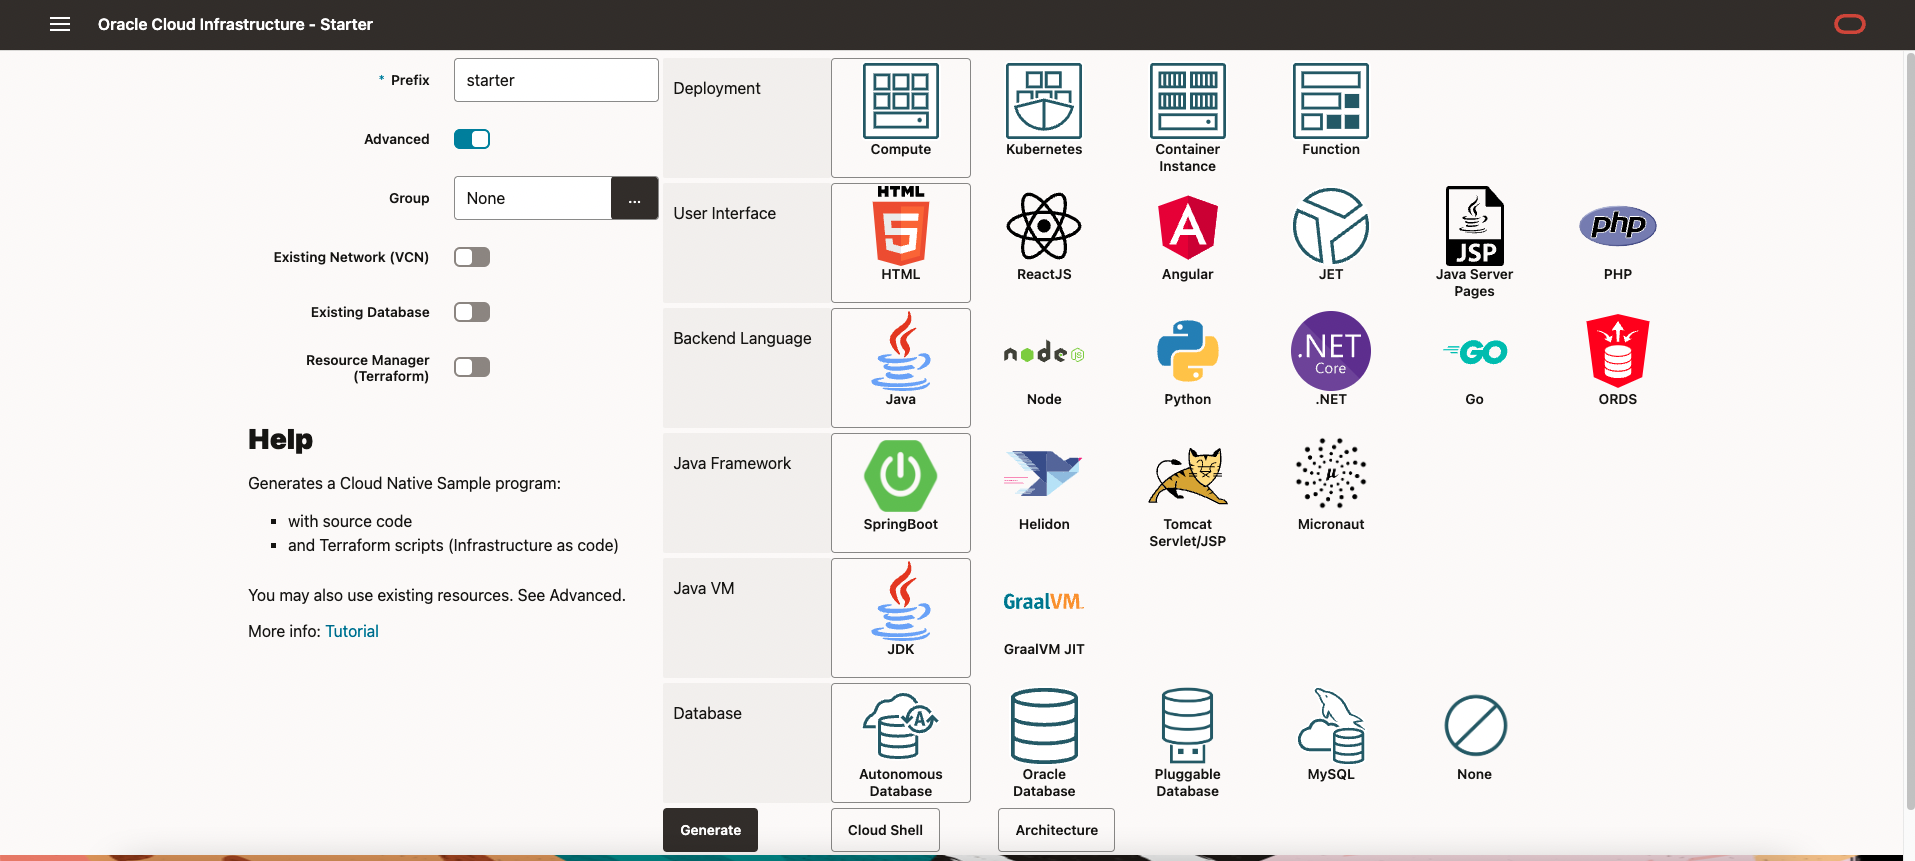
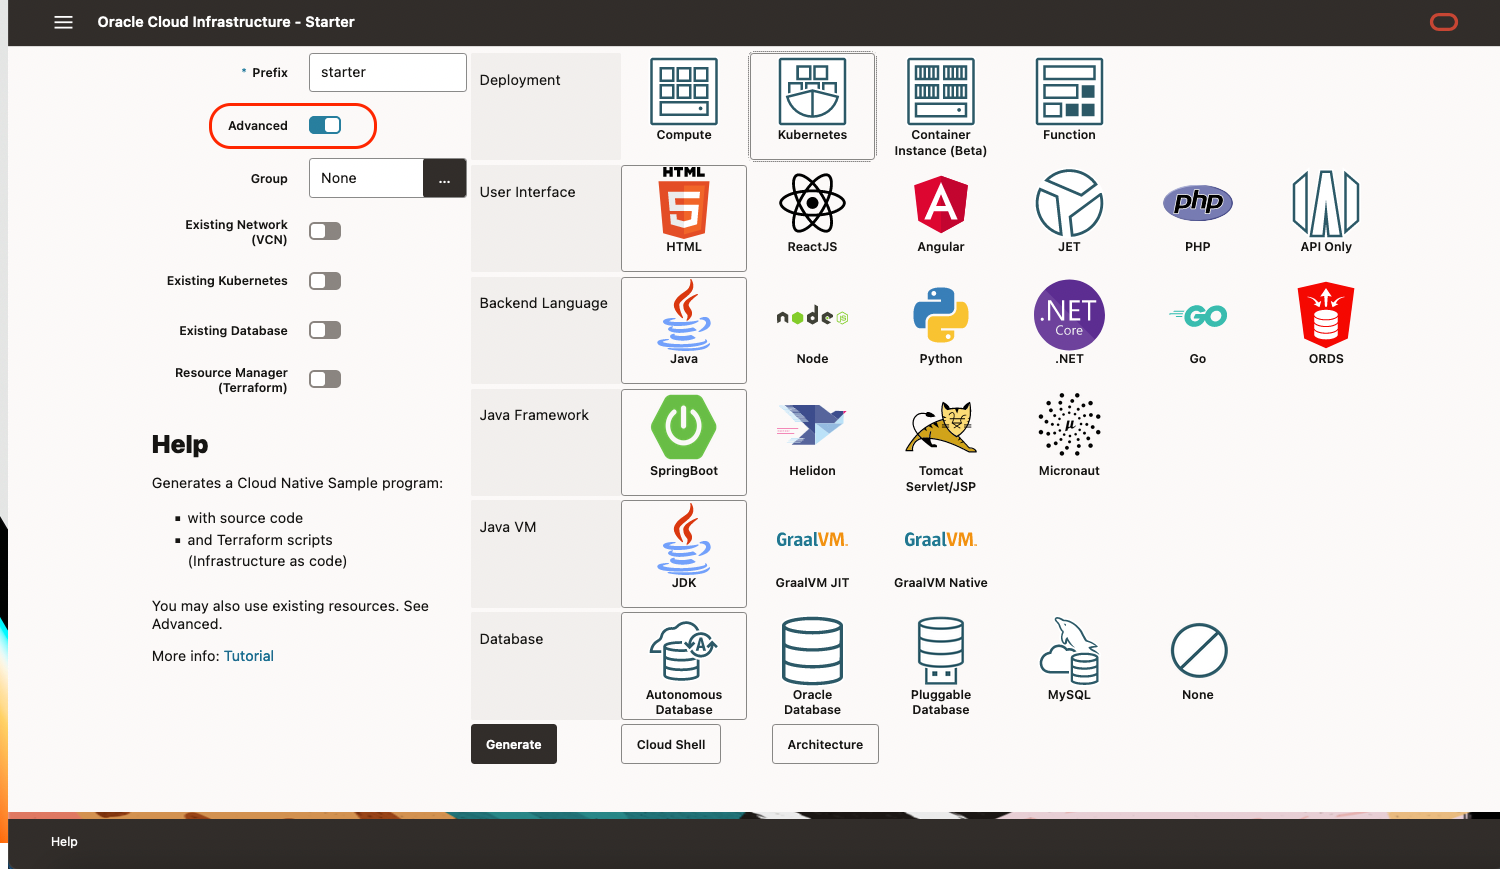
v1.5

diff --git a/oci-starter/group/group.md b/oci-starter/group/group.md
@@ -1,0 +1,134 @@
+
+# Groups
+
+Groups allow to create "Common Resources" that you will share between several applications.
+It can be:
+- the Network (VCN/Subnet)
+- a Kubernetes cluster (OKE)
+- (optional) a database or a container database
+- a bastion
+- ...
+
+
+But when you enable the *Advanced* option, you have 3 choices for Group: *None / New / Existing*
+
+- A application is by default standalone. Using no group: *None*
+- a new group with a first application: *New*
+- or a new application to use with an existing group: *Existing*
+
+## Architecture
+
+### Compute
+
+Here is the architecture of a group of applications sharing common resources with Compute
+
+![Group Compute](images/architecture_common_compute.png =80%x*)
+
+### Kubernetes
+
+Here is the architecture of a group of applications sharing common resources with  Kubernetes
+
+![Group Kubernetes](images/architecture_common_kubernetes.png =80%x*)
+
+### Container-Instance
+
+Here is the architecture of a group of applications sharing common resources with  Container Instance
+
+![Group Container-instance](images/architecture_common_container_instance.png =80%x*)
+
+### Function
+
+Here is the architecture of a group of applications sharing common resources with Function
+
+![Group Function](images/architecture_common_function.png =80%x*)
+
+## Task 1: Group sharing Kubernetes and Database for several Micro-Services
+
+### Group Common Resources and First application
+
+- Click on *Advanced*
+- Choose Group *New* 
+    - You may click on the "..." to get more explanation
+- Keep the *group name* "dev",    
+- Choose Deployment *Kubernetes*
+- Click *Cloud Shell*
+
+![Group App1](images/starter-group-app1.png =80%x*)
+
+- Copy the command 
+
+```
+curl "https://starter.wedoteam.io/app/zip?prefix=starter&group_name=dev&group_common=atp,oke&deploy=kubernetes&ui=html&language=java&database=atp" --output dev.zip
+unzip dev.zip
+cd dev
+cat README.md
+```
+
+Notice that you have 2 directories:
+- group_common for the common resources of the group (OKE, ATP)
+- starter for the application
+
+Configure the script:
+- In Cloud Shell Or Cloud Editor, edit the file *group_common/env.sh*
+- It is the exact same steps than for Kubernetes. You need to enter the TF\_VAR\_auth\_token (OCI Auth Token). Please refer lab 2 Kubernetes steps.
+
+![Group App1 Env](images/starter-group-app1-env.png =80%x*)
+
+- Run 
+
+```
+./build_group.sh
+```
+
+The build_group will first build group_common and then the application starter.
+
+When done, check if the application works:
+
+```
+http://123.123.123.123/starter/
+```
+
+## Task 2: Create a second application 
+
+This second application will reuse the same component than the previous one. (Network, Kubernetes, DB)
+So, practically, it will just create new PODS in the cluster.
+
+- Change the prefix to *starter2*
+- Click on *Advanced*
+- Choose Group *Existing* 
+- Choose *Existing Database* 
+- Choose Deployment *Kubernetes*
+- This time, let's choose Node as language
+- Click *Cloud Shell*
+
+![Group App2](images/starter-group-app2.png =80%x*)
+
+```
+cd dev 
+curl "https://starter.wedoteam.io/app/zip?prefix=starter2&deploy=compute&ui=html&language=java&database=atp" --output starter2.zip
+unzip starter2.zip
+cd starter2
+cat README.md
+```
+
+Run the build. Itt will take the environment variables from the group_common_env.sh created above.
+
+```
+./build.sh
+```
+
+Test if it works. Notice, the first app is using Java, the second one NodeJS.
+
+```
+http://123.123.123.123/starter/
+http://123.123.123.123/starter2/
+```
+
+Congratulation, if you reached this point, you created a group of 2 microservices using the same common resources !!
+
+## Acknowledgements 
+- **Author**
+    - Marc Gueury
+    - Ewan Slater 
+
+- **History** - Creation - 30 nov 2022

diff --git a/oci-starter/advanced/advanced.md b/oci-starter/advanced/advanced.md
@@ -4,25 +4,44 @@
 When you enable the *Advanced* option, you can do additional things:
 ![Advanced](images/starter-advanced.png =100%x*)
 
-### Resource Manager
+## Resource Manager
 
 Instead of using the command line Terraform, you can use Resource Manager (a Terraform Managed Service on OCI) to create the infrastructure
 
-### Existing Resources
+[More info: see docs.oracle.com > Concept > Resource Manager](https://docs.oracle.com/en-us/iaas/Content/ResourceManager/Concepts/resourcemanager.htm)
 
-Reuse an existing: 
+![Advanced](images/starter-advanced-resource-manager.png =30%x*)
 
+## Existing Resources
+
+To use resources that are already existing in your OCI Tenant (Database, OKE, Network)
 - Network VCN, Subnet
 - Database
 - OKE
 
-### GraalVM
+Please do this:
+1. Enable the Advanced topic
+2. Choose the checkbox to use the corresponding type of resource
+3. The zip will not contain Terraform scripts to create the resources, but ask you to fill the OCID of the existing resources before to build the application
 
-Use GraalVM EE instead of the normal JDK. With these advantages:
+![Advanced](images/starter-advanced-existing.png =30%x*)
 
-- Faster (20-30%)
-- Java Native Compilation
-- Polyglot  
+## Java VM - JDK / GraalVM JIT / GraalVM Native
+
+You can choose other Java VM to run your program:
+
+![Advanced](images/starter-advanced-javavm.png =50%x*)
+
+- GraalVM EE JIT has the the following advantages:
+    - Faster (20-30%)
+    - Java Native Compilation
+    - Polyglot  
+    - [More info: see https://wwww.graalvm.org](https://www.graalvm.org)
+- GraalVM EE Native compiles the Java program in binary format or Native executable. With the following advantages:
+    - Very fast startup (in few milliseconds)
+    - Low memory consumption
+    - These advantage come also with a long time to compile. So, it is better to first start first with JIT (JDK or GraalVM). Then to compile with GraalVM Native
+    - [More info: see https://www.graalvm.org/22.0/reference-manual/native-image/](https://www.graalvm.org/22.0/reference-manual/native-image/)
 
 ## Acknowledgements 
 - **Author**
